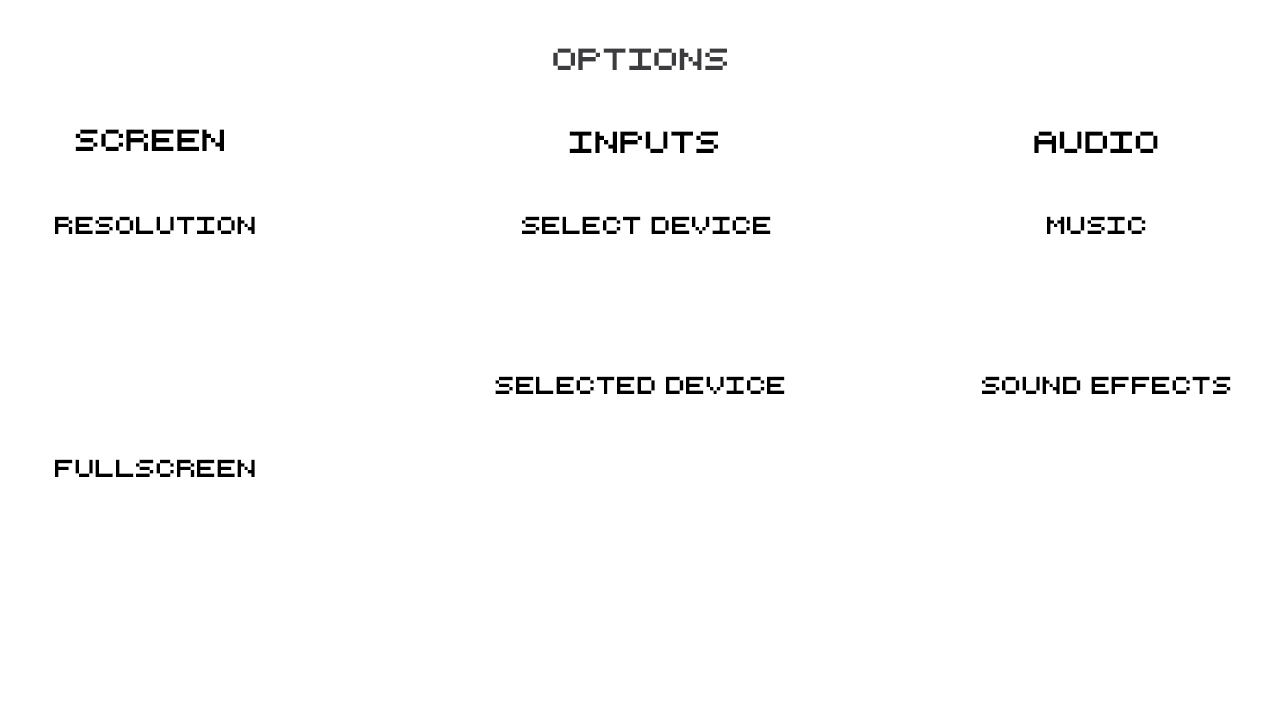
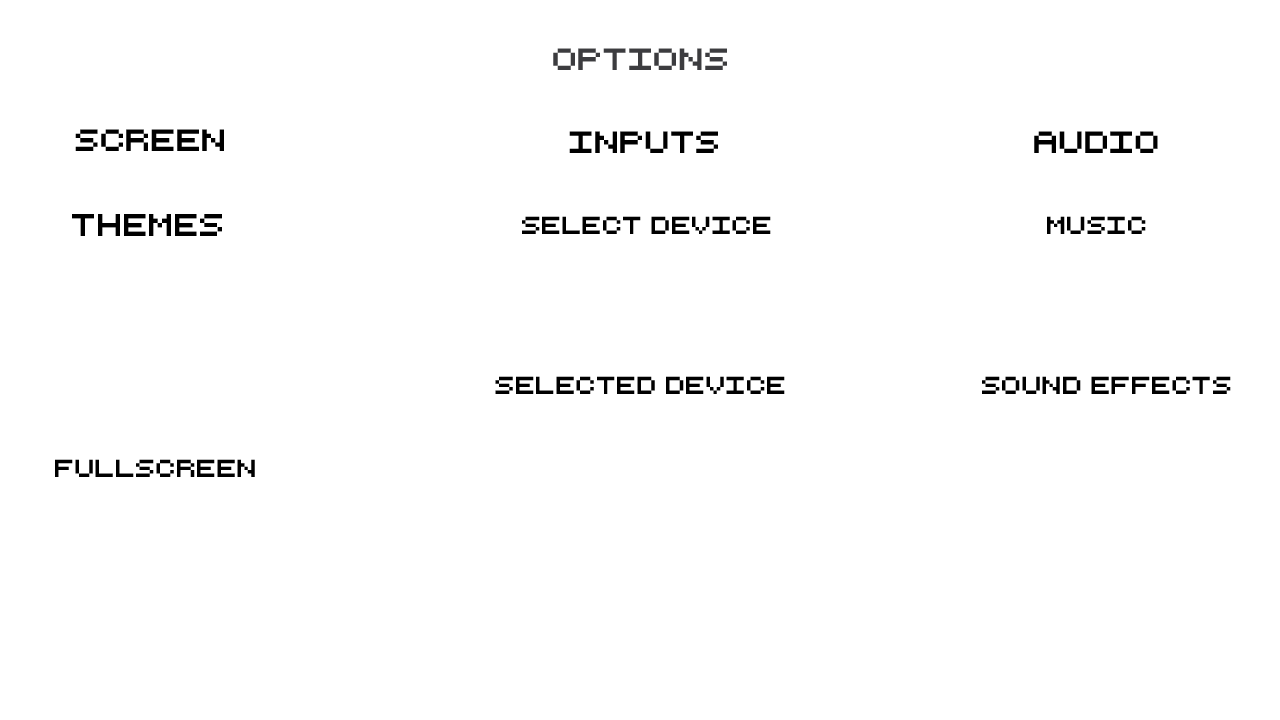
Options, selections de themes (pas de themes pour l'instant), mute menu, etc..

diff --git a/RythmRPG/RythmRPG/RythmRPG/Pages/Options.cs b/RythmRPG/RythmRPG/RythmRPG/Pages/Options.cs
@@ -21,6 +21,11 @@ namespace RythmRPG.Pages {
         public Sprite ResetProgression { get; set; }
         public Sprite Keyboard { get; set; }
         public Sprite Devices { get; set; }
+        public Sprite MuteMenu { get; set; }
+        public int SelectedTheme { get; set; }
+        public Sprite[] Theme1 { get; set; }
+        public Sprite[] Theme2 { get; set; }
+        public Sprite[] Theme3 { get; set; }
 
         public override void Initialize() {
             this.MainImage = new Sprite(0, 0, Game1.Width, Game1.Height);
@@ -44,8 +49,23 @@ namespace RythmRPG.Pages {
             }
 
             this.ResetProgression = new Sprite(12 * Game1.UnitX, 16 * Game1.UnitY, Game1.ButtonWidth, Game1.ButtonHeight);
-            this.Keyboard = new Sprite(13 * Game1.UnitX, 10 * Game1.UnitY, 6 * Game1.UnitX, 2 * Game1.UnitY);
-            this.Devices = new Sprite(13 * Game1.UnitX, 6 * Game1.UnitY, 6 * Game1.UnitX, 2 * Game1.UnitY);
+            this.Keyboard = new Sprite(14 * Game1.UnitX, 10 * Game1.UnitY, 4 * Game1.UnitX, 2 * Game1.UnitY);
+            this.Devices = new Sprite(14 * Game1.UnitX, 6 * Game1.UnitY, 4 * Game1.UnitX, 2 * Game1.UnitY);
+
+            this.MuteMenu = new Sprite(24 * Game1.UnitX, 13 * Game1.UnitY, 7 * Game1.UnitX, Game1.UnitY);
+            this.SelectedTheme = 0;
+            this.Theme1 = new Sprite[2] {
+                new Sprite(Game1.UnitX, 6 * Game1.UnitY, 6 * Game1.UnitX, Game1.UnitY),
+                new Sprite(Game1.UnitX, 6 * Game1.UnitY, 6 * Game1.UnitX, Game1.UnitY)
+            };
+            this.Theme2 = new Sprite[2] {
+                new Sprite(Game1.UnitX, 7 * Game1.UnitY, 6 * Game1.UnitX, Game1.UnitY),
+                new Sprite(Game1.UnitX, 7 * Game1.UnitY, 6 * Game1.UnitX, Game1.UnitY)
+            };
+            this.Theme3 = new Sprite[2] {
+                new Sprite(Game1.UnitX, 8 * Game1.UnitY, 6 * Game1.UnitX, Game1.UnitY),
+                new Sprite(Game1.UnitX, 8 * Game1.UnitY, 6 * Game1.UnitX, Game1.UnitY)
+            };
         }
         public override void LoadContent(Microsoft.Xna.Framework.Content.ContentManager content) {
             this.MainImage.LoadContent(content, "Options/Options");
@@ -62,6 +82,14 @@ namespace RythmRPG.Pages {
 
             this.Keyboard.LoadContent(content, "Options/keyboard");
             this.Devices.LoadContent(content, "Options/keyboard");
+
+            this.MuteMenu.LoadContent(content, "Options/MuteMenu");
+            this.Theme1[0].LoadContent(content, "Options/Theme1");
+            this.Theme1[1].LoadContent(content, "Options/Theme1");
+            this.Theme2[0].LoadContent(content, "Options/Theme2");
+            this.Theme2[1].LoadContent(content, "Options/Theme2");
+            this.Theme3[0].LoadContent(content, "Options/Theme3");
+            this.Theme3[1].LoadContent(content, "Options/Theme3");
 
             foreach (Sprite item in this.VolumeMusic) {
                 item.LoadContent(content, "Options/One");
@@ -94,6 +122,30 @@ namespace RythmRPG.Pages {
                 else if (isOver(mouse, this.RightSound) && Game1.VolumeSound < 10) {
                     Game1.VolumeSound += 2;
                 }
+                //Menu Volume
+                else if (isOver(mouse, this.MuteMenu)) {
+                    if (Game1.VolumeMenu == 0) {
+                        Game1.VolumeMenu = 5;
+                    }
+                    else {
+                        Game1.VolumeMenu = 0;
+                    }
+                    
+                }
+
+                //Themes
+                if (isOver(mouse, Theme1[0])) {
+                    Game1.SelectedTheme = 0;
+                    this.SelectedTheme = 0;
+                }
+                else if (isOver(mouse, Theme2[0])) {
+                    Game1.SelectedTheme = 1;
+                    this.SelectedTheme = 1;
+                }
+                else if (isOver(mouse, Theme3[0])) {
+                    Game1.SelectedTheme = 2;
+                    this.SelectedTheme = 2;
+                }
             }
         }
 
@@ -111,6 +163,21 @@ namespace RythmRPG.Pages {
 
             this.Keyboard.Draw(spriteBatch, gameTime);
             this.Devices.Draw(spriteBatch, gameTime);
+
+            this.MuteMenu.Draw(spriteBatch, gameTime);
+            this.Theme1[0].Draw(spriteBatch, gameTime);
+            this.Theme2[0].Draw(spriteBatch, gameTime);
+            this.Theme3[0].Draw(spriteBatch, gameTime);
+            if (SelectedTheme == 0) {
+                this.Theme1[1].Draw(spriteBatch, gameTime);
+            }
+            else if (SelectedTheme == 1) {
+                this.Theme2[1].Draw(spriteBatch, gameTime);
+            }
+            else if (SelectedTheme == 2) {
+                this.Theme3[1].Draw(spriteBatch, gameTime);
+            }
+
 
             for (int i = 0; i < Game1.VolumeMusic /2; i++) {
                 VolumeMusic[i].Draw(spriteBatch, gameTime);

diff --git a/RythmRPG/RythmRPG/RythmRPG/Pages/MusicPlaying.cs b/RythmRPG/RythmRPG/RythmRPG/Pages/MusicPlaying.cs
@@ -14,6 +14,7 @@ namespace RythmRPG.Pages {
         public bool isLoaded { get; set; }
         public Sprite MainImage { get; set; }
         public Sprite[] SpriteCharacters { get; set; }
+        public List<AbstractCharacter> Monsters { get; set; }
         public TextSprite Name { get; set; }
         public TextSprite Level { get; set; }
         public TextSprite Endurance { get; set; }
@@ -71,6 +72,16 @@ namespace RythmRPG.Pages {
             */
             if (currentKeyboardState.IsKeyDown(Keys.Escape)) {
                 Game1.GameState = GameState.Pause;
+            }
+            else if (currentKeyboardState.IsKeyDown(Keys.Z)) {//Touche Z
+            }
+            else if (currentKeyboardState.IsKeyDown(Keys.Q)) {//Touche Q
+            }
+            else if (currentKeyboardState.IsKeyDown(Keys.D)) {//Touche D
+            }
+            else if (currentKeyboardState.IsKeyDown(Keys.LeftShift)) {//Touche Shift
+            }
+            else if (currentKeyboardState.IsKeyDown(Keys.Space)) {//Touche Space
             }
         }
 

diff --git a/RythmRPG/RythmRPG/RythmRPG/Game1.cs b/RythmRPG/RythmRPG/RythmRPG/Game1.cs
@@ -21,9 +21,12 @@ namespace RythmRPG {
         public const int DEFAULT_WINDOWS_WIDTH = 1280;
         public const int DEFAULT_WINDOWS_HEIGHT = 720;
         
+        //Options
         public static GameState GameState;
+        public static int SelectedTheme;
         public static int VolumeMusic = 4;
         public static int VolumeSound = 4;
+        public static int VolumeMenu = 5;
         public static Save Save;
         public static Difficulty Difficulty;
 
@@ -297,6 +300,10 @@ namespace RythmRPG {
             };
 
             base.Draw(gameTime);
+        }
+
+        public void ChangeTheme() {
+            this.LoadContent();
         }
     }
 }

diff --git a/RythmRPG/RythmRPG/RythmRPG/Pages/GameMenu.cs b/RythmRPG/RythmRPG/RythmRPG/Pages/GameMenu.cs
@@ -139,6 +139,7 @@ namespace RythmRPG.Pages {
                 this.Level.Text = string.Format("{0} ({1})", character.Level, character.NbRestart);
             }
             this.Endurance.Text = character.Defense.ToString();
+            this.Vitality.Text = character.Vitality.ToString();
             this.HP.Text = character.Health.ToString();
             this.Strength.Text = character.Attack.ToString();
             this.Ability.Text = character.uniqueSkill.ToString();

diff --git a/RythmRPG/RythmRPG/RythmRPG/Pages/ModifyCharacter.cs b/RythmRPG/RythmRPG/RythmRPG/Pages/ModifyCharacter.cs
@@ -130,6 +130,7 @@ namespace RythmRPG.Pages {
             this.Name.Text = character.Name;
             this.Level.Text = character.Level.ToString();
             this.Endurance.Text = character.Defense.ToString();
+            this.Vitality.Text = character.Vitality.ToString();
             this.HP.Text = character.Health.ToString();
             this.Strength.Text = character.Attack.ToString();
             this.StatsPoints.Text = character.statPoints.ToString();

diff --git a/RythmRPG/RythmRPG/RythmRPG/CharacterStuff/Mob.cs b/RythmRPG/RythmRPG/RythmRPG/CharacterStuff/Mob.cs
@@ -6,7 +6,7 @@ using System.Text;
 
 namespace RythmRPG.CharacterStuff
 {
-    class Mob : AbstractCharacter
+    public class Mob : AbstractCharacter
     {
         public Mob(int level, int vitality, int attack, int defense,
             string idleSpriteName, string attackingSpriteName, Vector2 position, float size)
